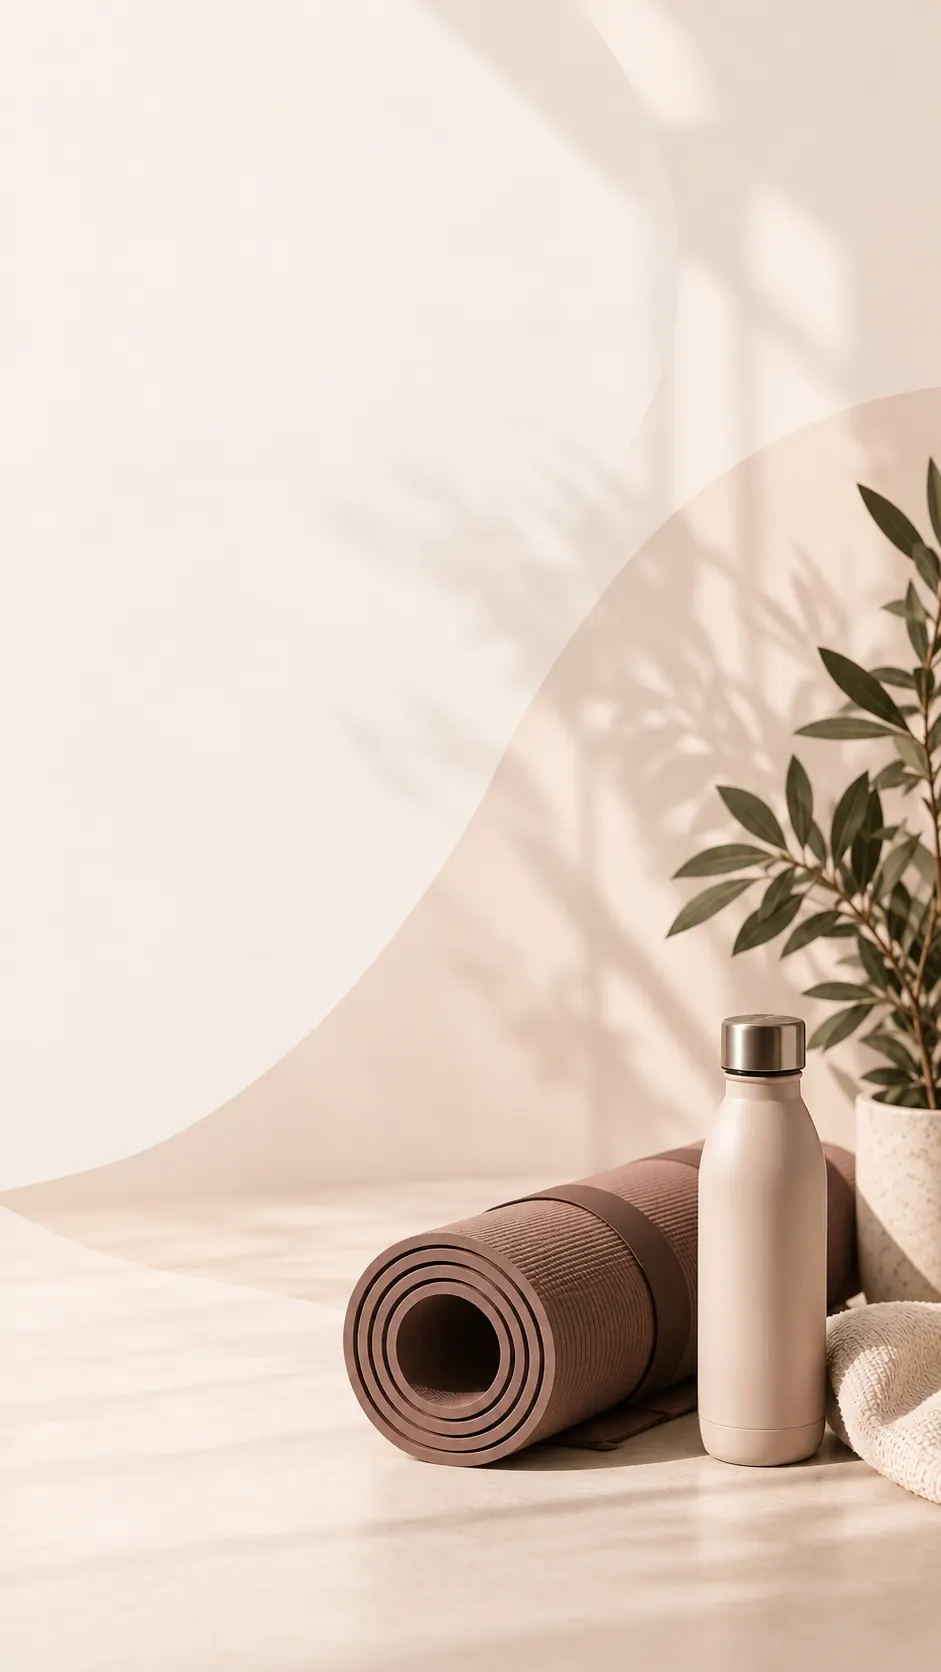
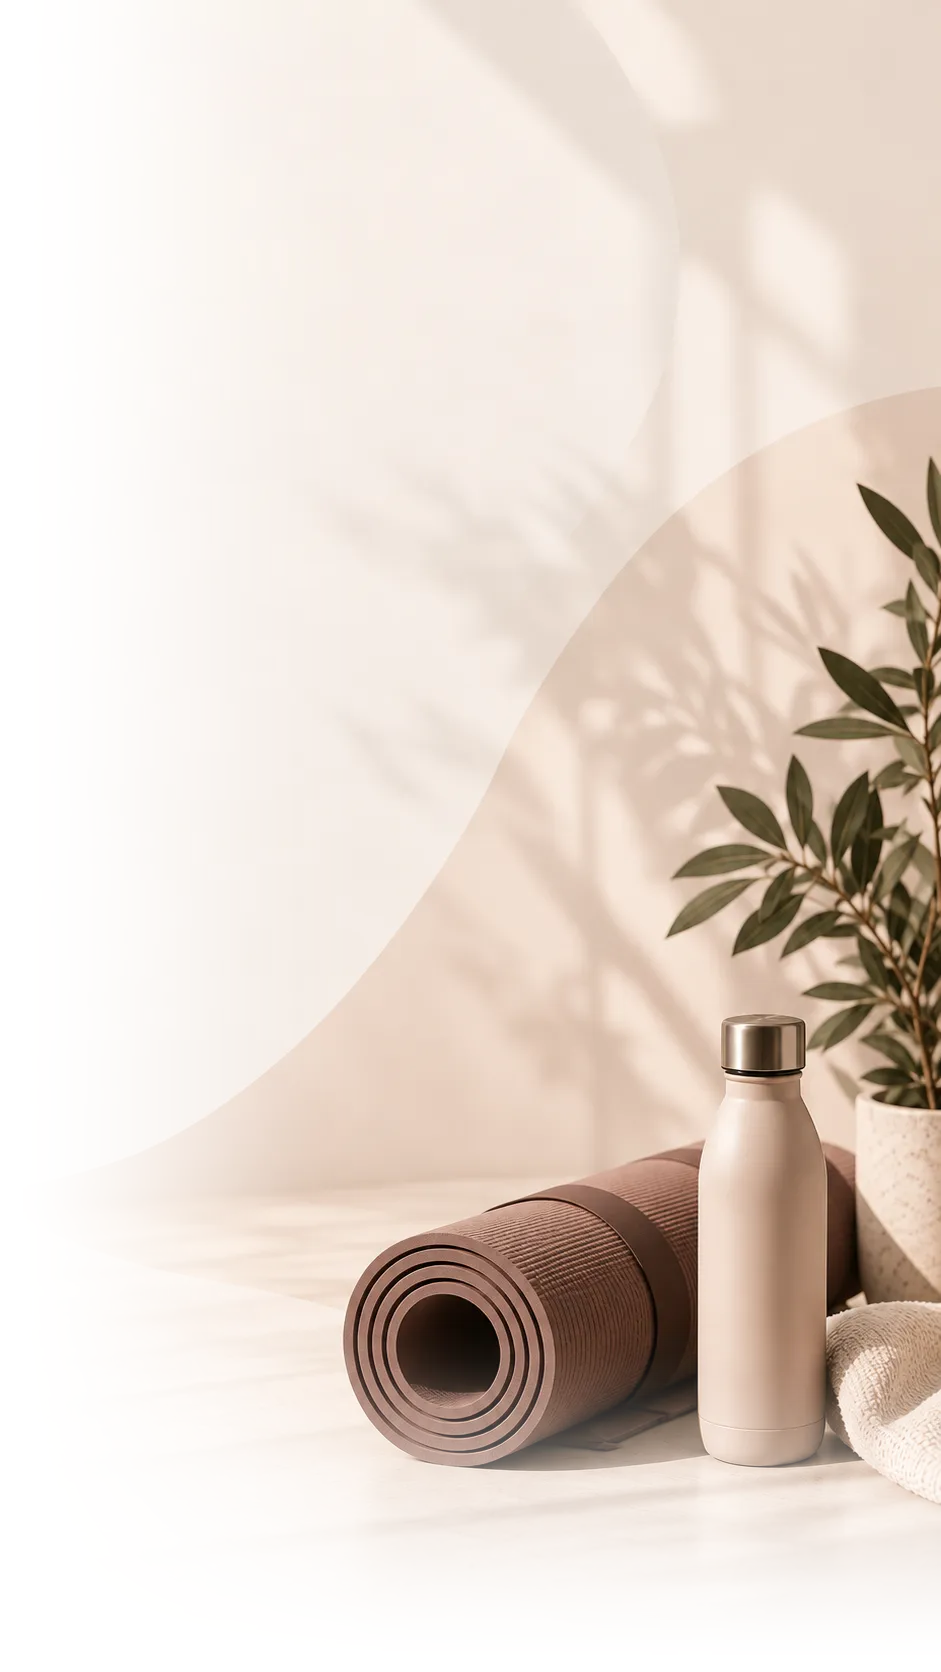
feat(dashboard): hero fades into the page at 50vw; lead one sentence per line

Changed region(s): [[0.0, 0.622, 1.0, 1.0]]

diff --git a/src/app/src/app/features/dashboard/dashboard.scss b/src/app/src/app/features/dashboard/dashboard.scss
@@ -4,8 +4,9 @@
 @use 'breakpoints' as bp;
 
 // The greeting. The photo behind it is the page's background (src/styles.scss, body:has(app-dashboard)):
-// 60vw wide at the top right, so 40vw tall on the web and 60vw * 1672/941 on a phone. The hero is
-// that tall minus what sits above it, so the cards start under the photo instead of covering it.
+// 50vw wide at the top right, so 33.3vw tall on the web and 50vw * 1672/941 = 88.8vw on a phone. Its
+// bottom edge fades out over its last ~15%, so the hero ends mid-fade, 85% of the way down, minus what
+// sits above it: the cards start where the photo has dissolved instead of covering it.
 .dashboard-hero {
   // The header (the 140px logo, 163x89, plus --space-4 above and below: ~6.75rem) and
   // .shell-main's --space-7 top padding. Not tokens above 30rem, so written out here.
@@ -14,7 +15,7 @@
   display: flex;
   flex-direction: column;
   justify-content: center;
-  min-height: calc(40vw - var(--above));
+  min-height: calc(28.3vw - var(--above));
 
   > * {
     max-width: 30rem;
@@ -32,7 +33,7 @@
     --above: calc(var(--app-bar-height) + env(safe-area-inset-top) + var(--space-5));
 
     justify-content: flex-start;
-    min-height: calc(60vw * 1672 / 941 - var(--above));
+    min-height: calc(75.5vw - var(--above));
 
     > * {
       max-width: 75%;
@@ -57,6 +58,10 @@
   margin: 0;
   color: var(--muted);
   font-size: 0.9375rem;
+
+  > span {
+    display: block;
+  }
 }
 
 .dashboard-cards {

diff --git a/src/app/src/styles.scss b/src/app/src/styles.scss
@@ -212,11 +212,11 @@ body {
 
 // Start's hero photo (the dashboard). On the page rather than in the dashboard, so it begins at the
 // very top of the screen behind the header, which is transparent there; a component's stylesheet
-// cannot reach <body>. Anchored top-right at 60% of the width and never cropped: its cream left edge
-// is --page, so it blends into the rest of the page. The dashboard's .dashboard-hero keeps the cards
+// cannot reach <body>. Anchored top-right at half the width and never cropped. Its left and bottom
+// edges fade to transparent in the file itself (public/hero-*.webp), so it melts into --page. The dashboard's .dashboard-hero keeps the cards
 // below the photo's bottom edge.
 body:has(app-dashboard) {
-  background: var(--page) url('/hero-web.webp') right top / 60vw auto no-repeat;
+  background: var(--page) url('/hero-web.webp') right top / 50vw auto no-repeat;
 
   @include bp.narrow {
     background-image: url('/hero-mobile.webp');

diff --git a/src/app/src/app/features/dashboard/dashboard.html b/src/app/src/app/features/dashboard/dashboard.html
@@ -4,8 +4,10 @@
   <div class="hello-text">Miło Cię widzieć👋</div>
   <h1>Cześć{{ displayName() ? ', ' + displayName() : '' }}!</h1>
   <!-- Placeholder copy — the club may want its own words here. -->
+  <!-- One sentence per line. -->
   <p class="dashboard-lead">
-    Każdy trening to krok do przodu. Nie musisz być najlepszy — wystarczy, że przyjdziesz.
+    <span>Każdy trening to krok do przodu.</span>
+    <span>Nie musisz być najlepszy — wystarczy, że przyjdziesz.</span>
   </p>
 </header>
 
